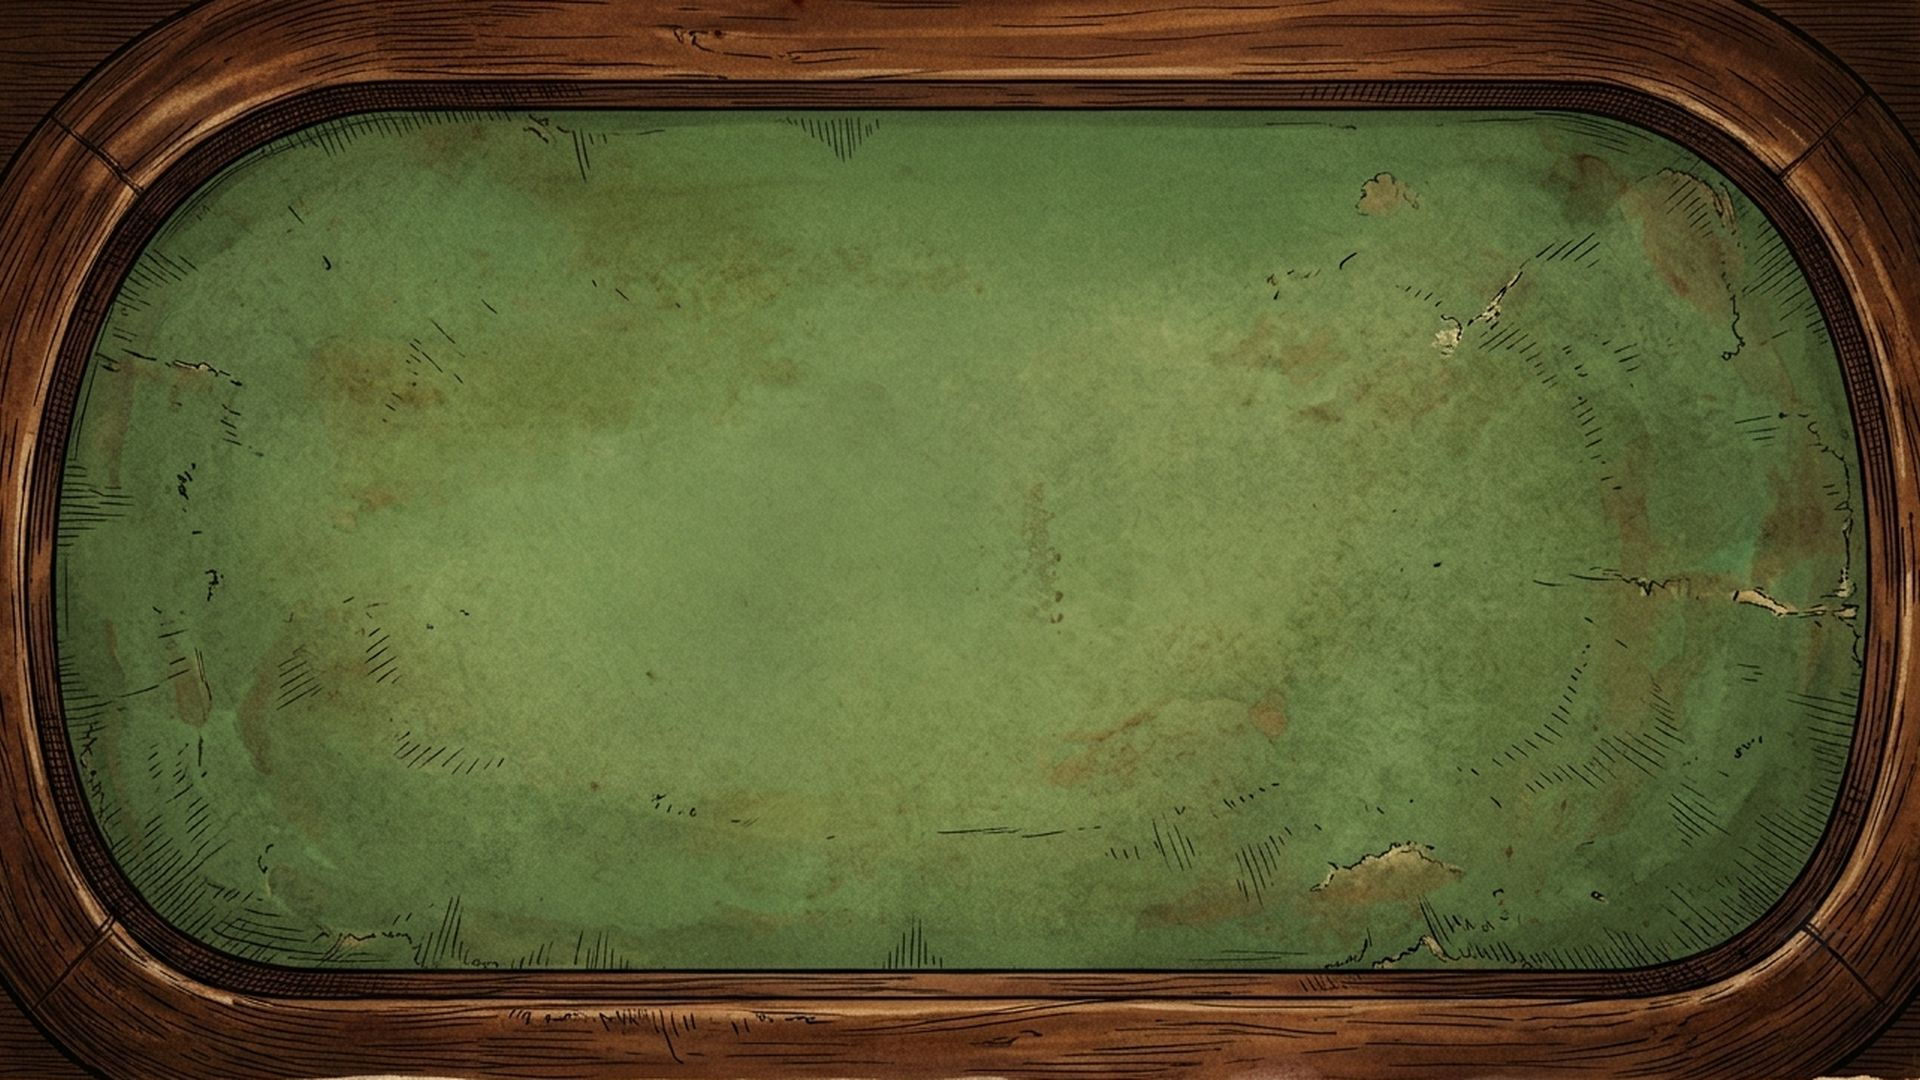
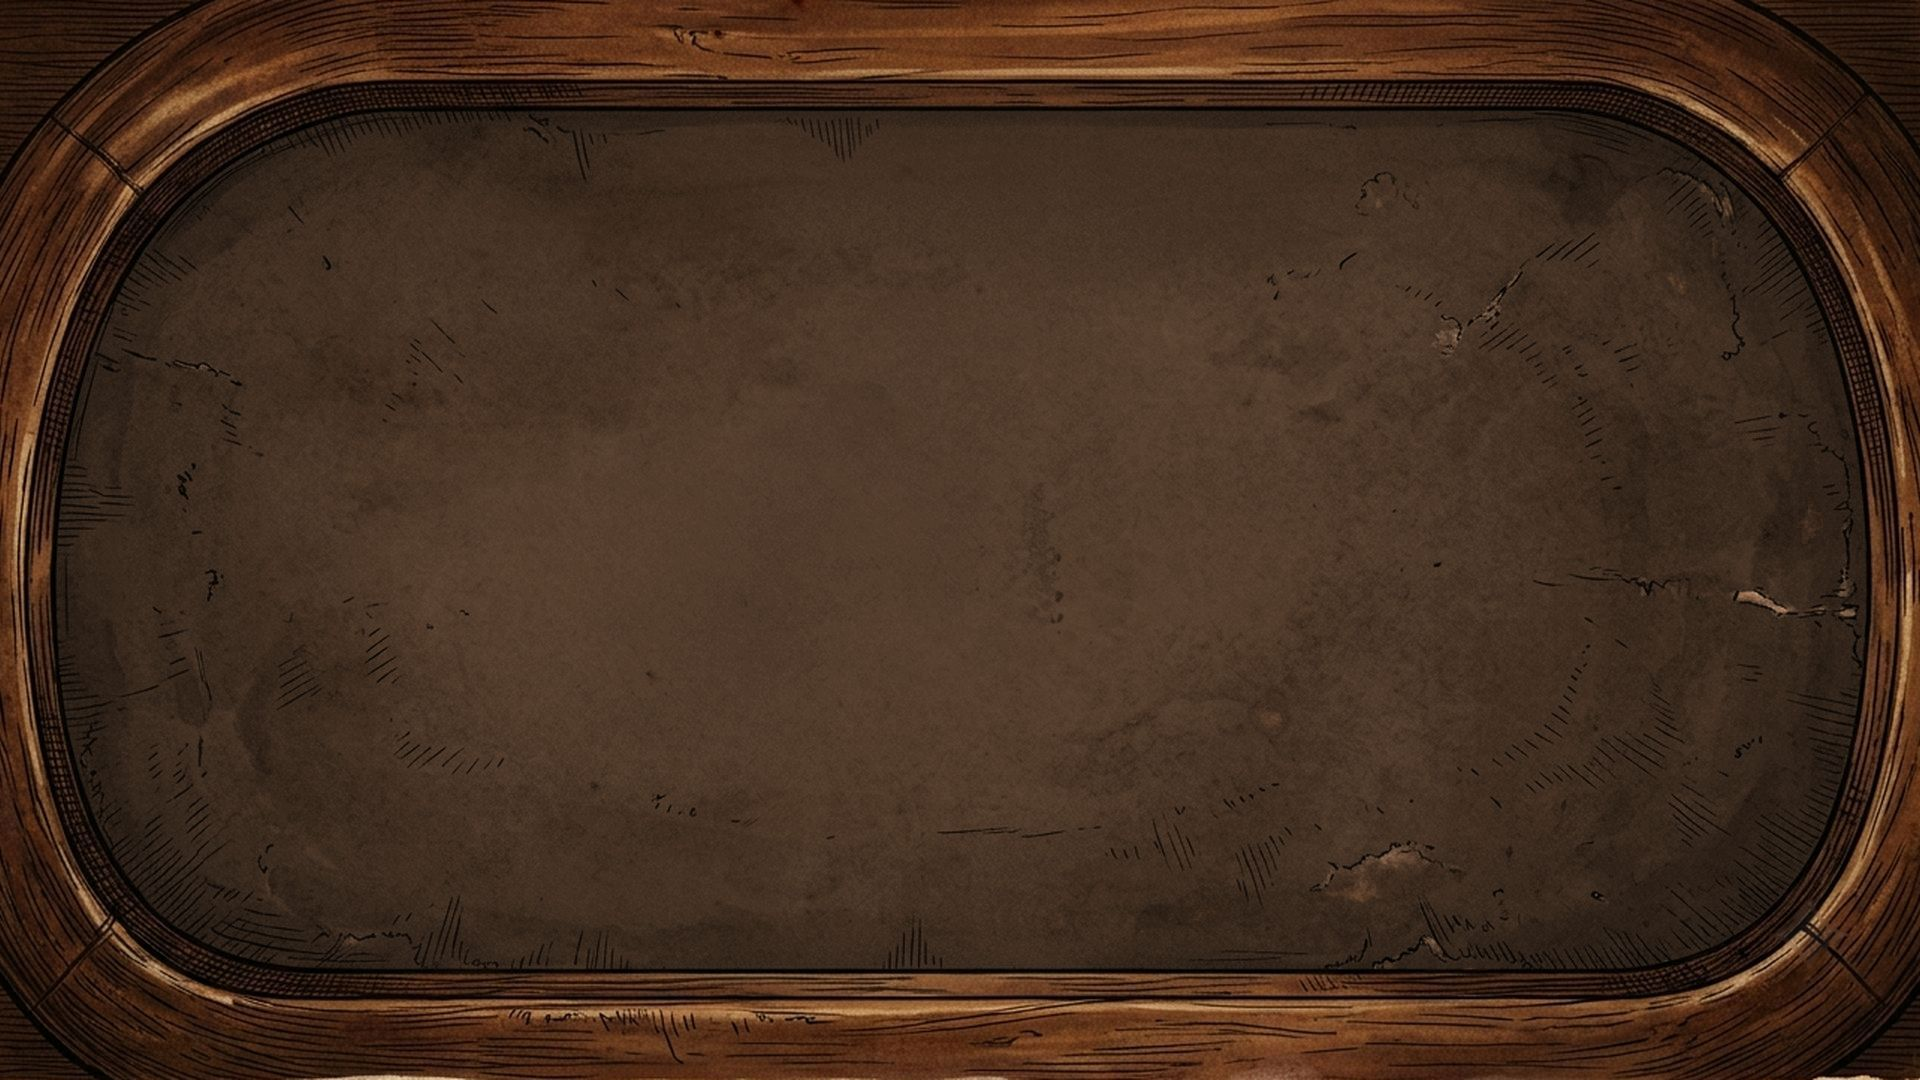
그림 손보기: 러시안 룰렛(열린 실린더, 나무 탁자) · 도탄(가는 궤적) 다시 뽑기, 판 탁자 초록 펠트를 갈색 가죽으로, 인계 문서 맥 기준 보강

diff --git a/tools/make_assets.py b/tools/make_assets.py
@@ -48,6 +48,8 @@ GRIDS = {
     'fix1': ['roles/sheriff', 'roles/deputy', 'chars/vulture', None],
     #   events2 hangover ('SALOON' carved on table) / reverend ('BIBLE' on book) had lettering
     'events_fix1': ['events/hangover', 'events/reverend', None, None],
+    #   events7 roulette had a closed cylinder on green felt, events6 ricochet trail looked too cartoony
+    'events_fix2': [None, 'events/roulette', 'events/ricochet', None],
 }
 # extra inset (fraction of each side) after deframe, for panels with rounded/torn edges
 INSET = {'cards/back': 0.045, 'roles/back': 0.045, 'lobby': 0.025, 'table': 0.03}
@@ -166,6 +168,19 @@ def build_singles():
         save_webp(square(deframe(im)), rel)
 
 
+def unfelt(im, hue=26, sat=0.5, val=0.6):
+    """green felt -> dark brown leather (user: no green card tables). Keeps shading/texture, leaves the wood rim alone."""
+    hsv = np.asarray(im.convert('HSV')).astype(np.float32)
+    h, s, v = hsv[..., 0] * 360 / 255, hsv[..., 1] / 255, hsv[..., 2] / 255
+    m = np.clip(1 - np.maximum(0, np.abs(h - 110) - 60) / 12, 0, 1) * np.clip((s - 0.08) / 0.1, 0, 1)
+    ns = np.clip(sat * (0.6 + 0.8 * s), 0, 1)
+    out = hsv.copy()
+    out[..., 0] = np.where(m > 0, hue * 255 / 360, hsv[..., 0])
+    out[..., 1] = (s * (1 - m) + ns * m) * 255
+    out[..., 2] = (v * (1 - m) + v * val * m) * 255
+    return Image.fromarray(out.round().clip(0, 255).astype(np.uint8), 'HSV').convert('RGB')
+
+
 def build_bg(name, out, size):
     im = load_raw(name)
     if im is None:
@@ -174,6 +189,8 @@ def build_bg(name, out, size):
     im = inset(im, INSET.get(name, 0))  # no deframe: it would bite into the table's felt outline
     if name == 'paper':
         im = seamless(im)
+    if name == 'table':
+        im = unfelt(im)
     im = ImageOps.fit(im, size, Image.LANCZOS)
     path = os.path.join(IMG, out)
     im.save(path, 'JPEG', quality=80, optimize=True, progressive=True)
